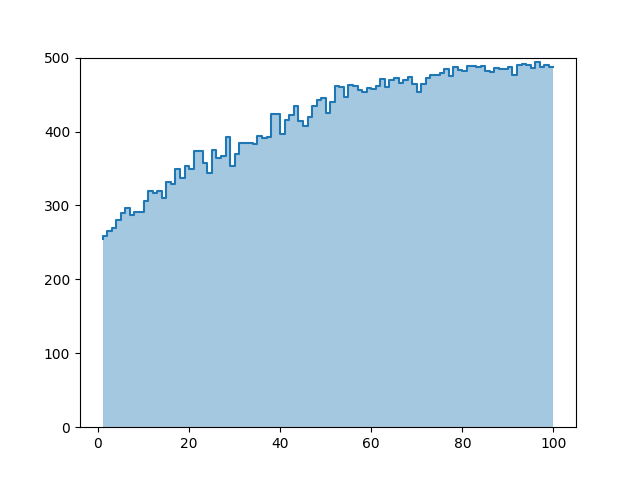
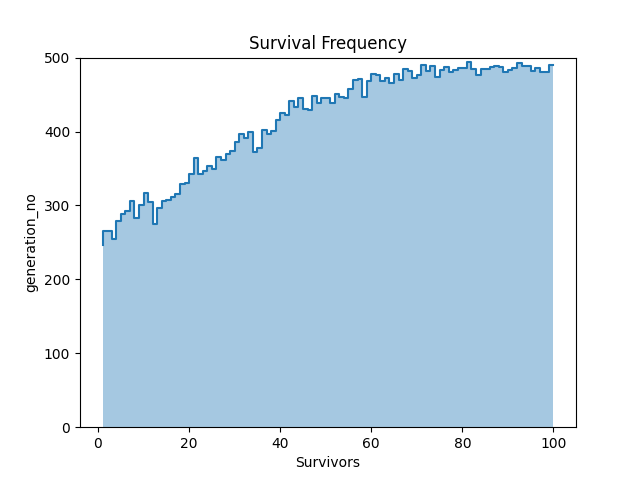
gifs

diff --git a/environment.py b/environment.py
@@ -173,6 +173,9 @@ class Environment:
 		plt.fill_between(np.arange(len(survivals))+1, survivals, step="pre", alpha=0.4)
 		plt.plot(np.arange(len(survivals))+1, survivals, drawstyle="steps")
 		plt.ylim([0, self.population_size])
+		plt.title("Survival Frequency")
+		plt.xlabel("Survivors")
+		plt.ylabel("generation_no")
 		plt.savefig("survival_progress.png")
 
 if __name__ == '__main__':
